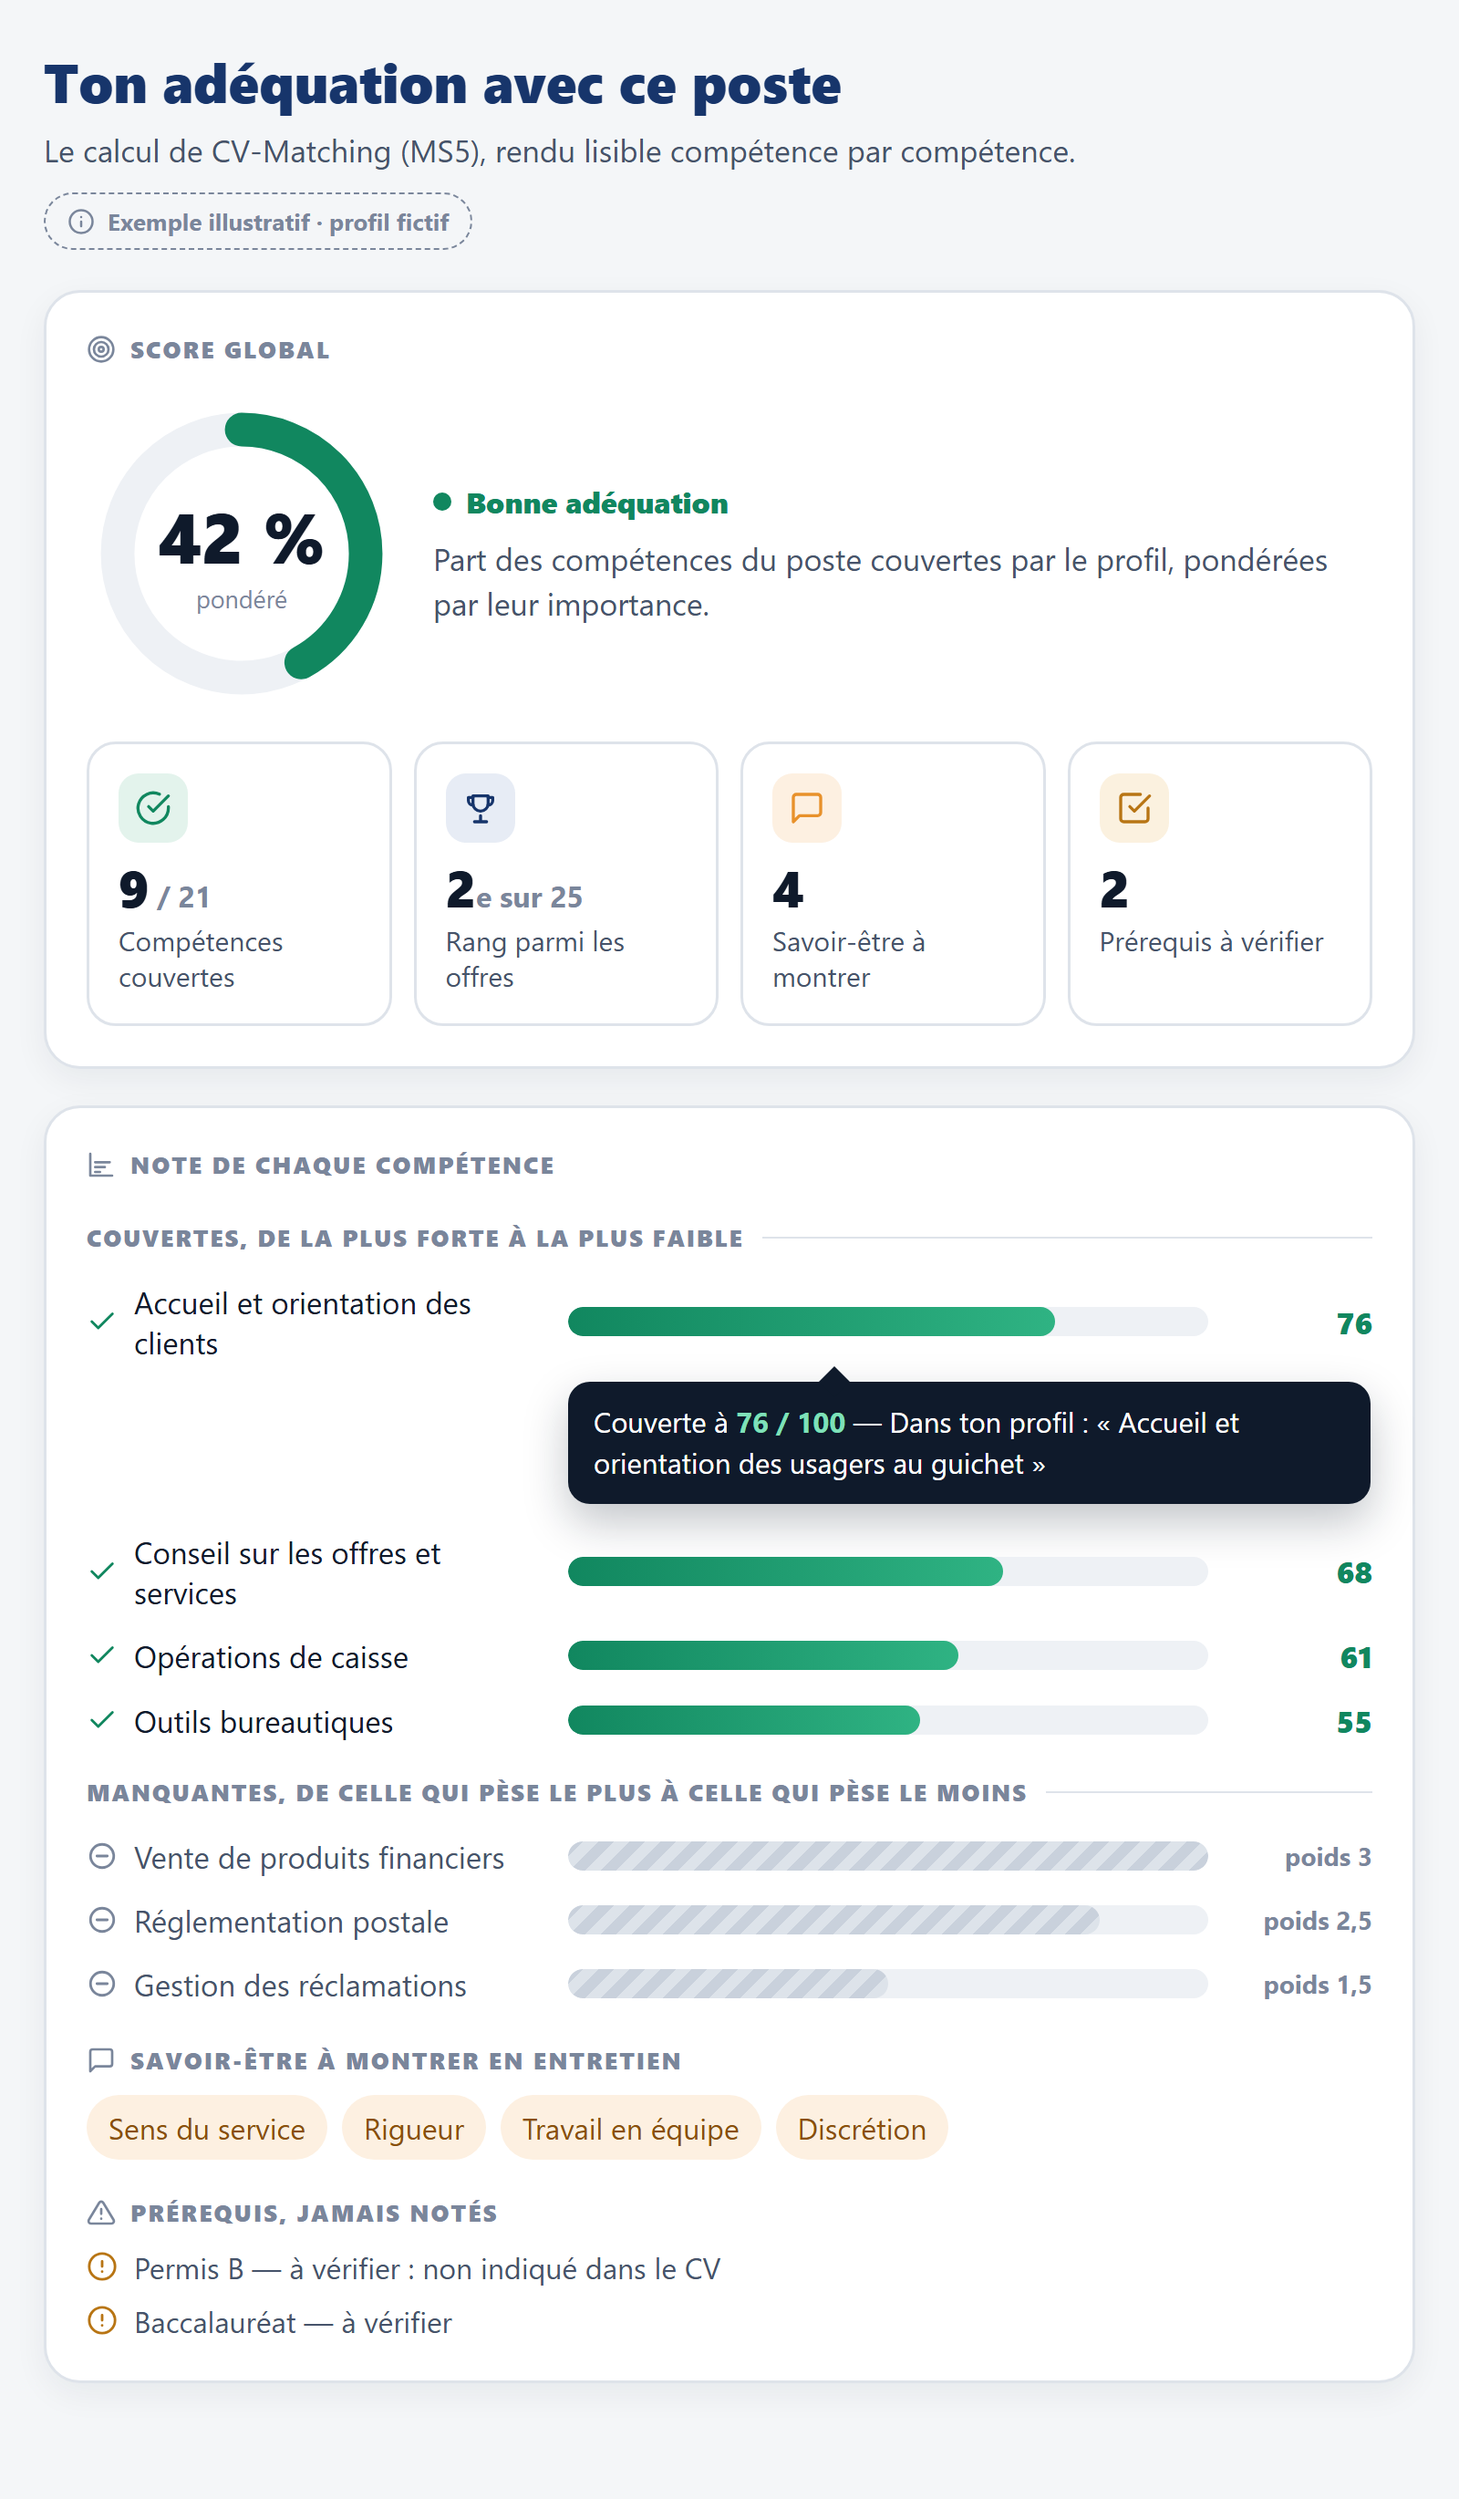
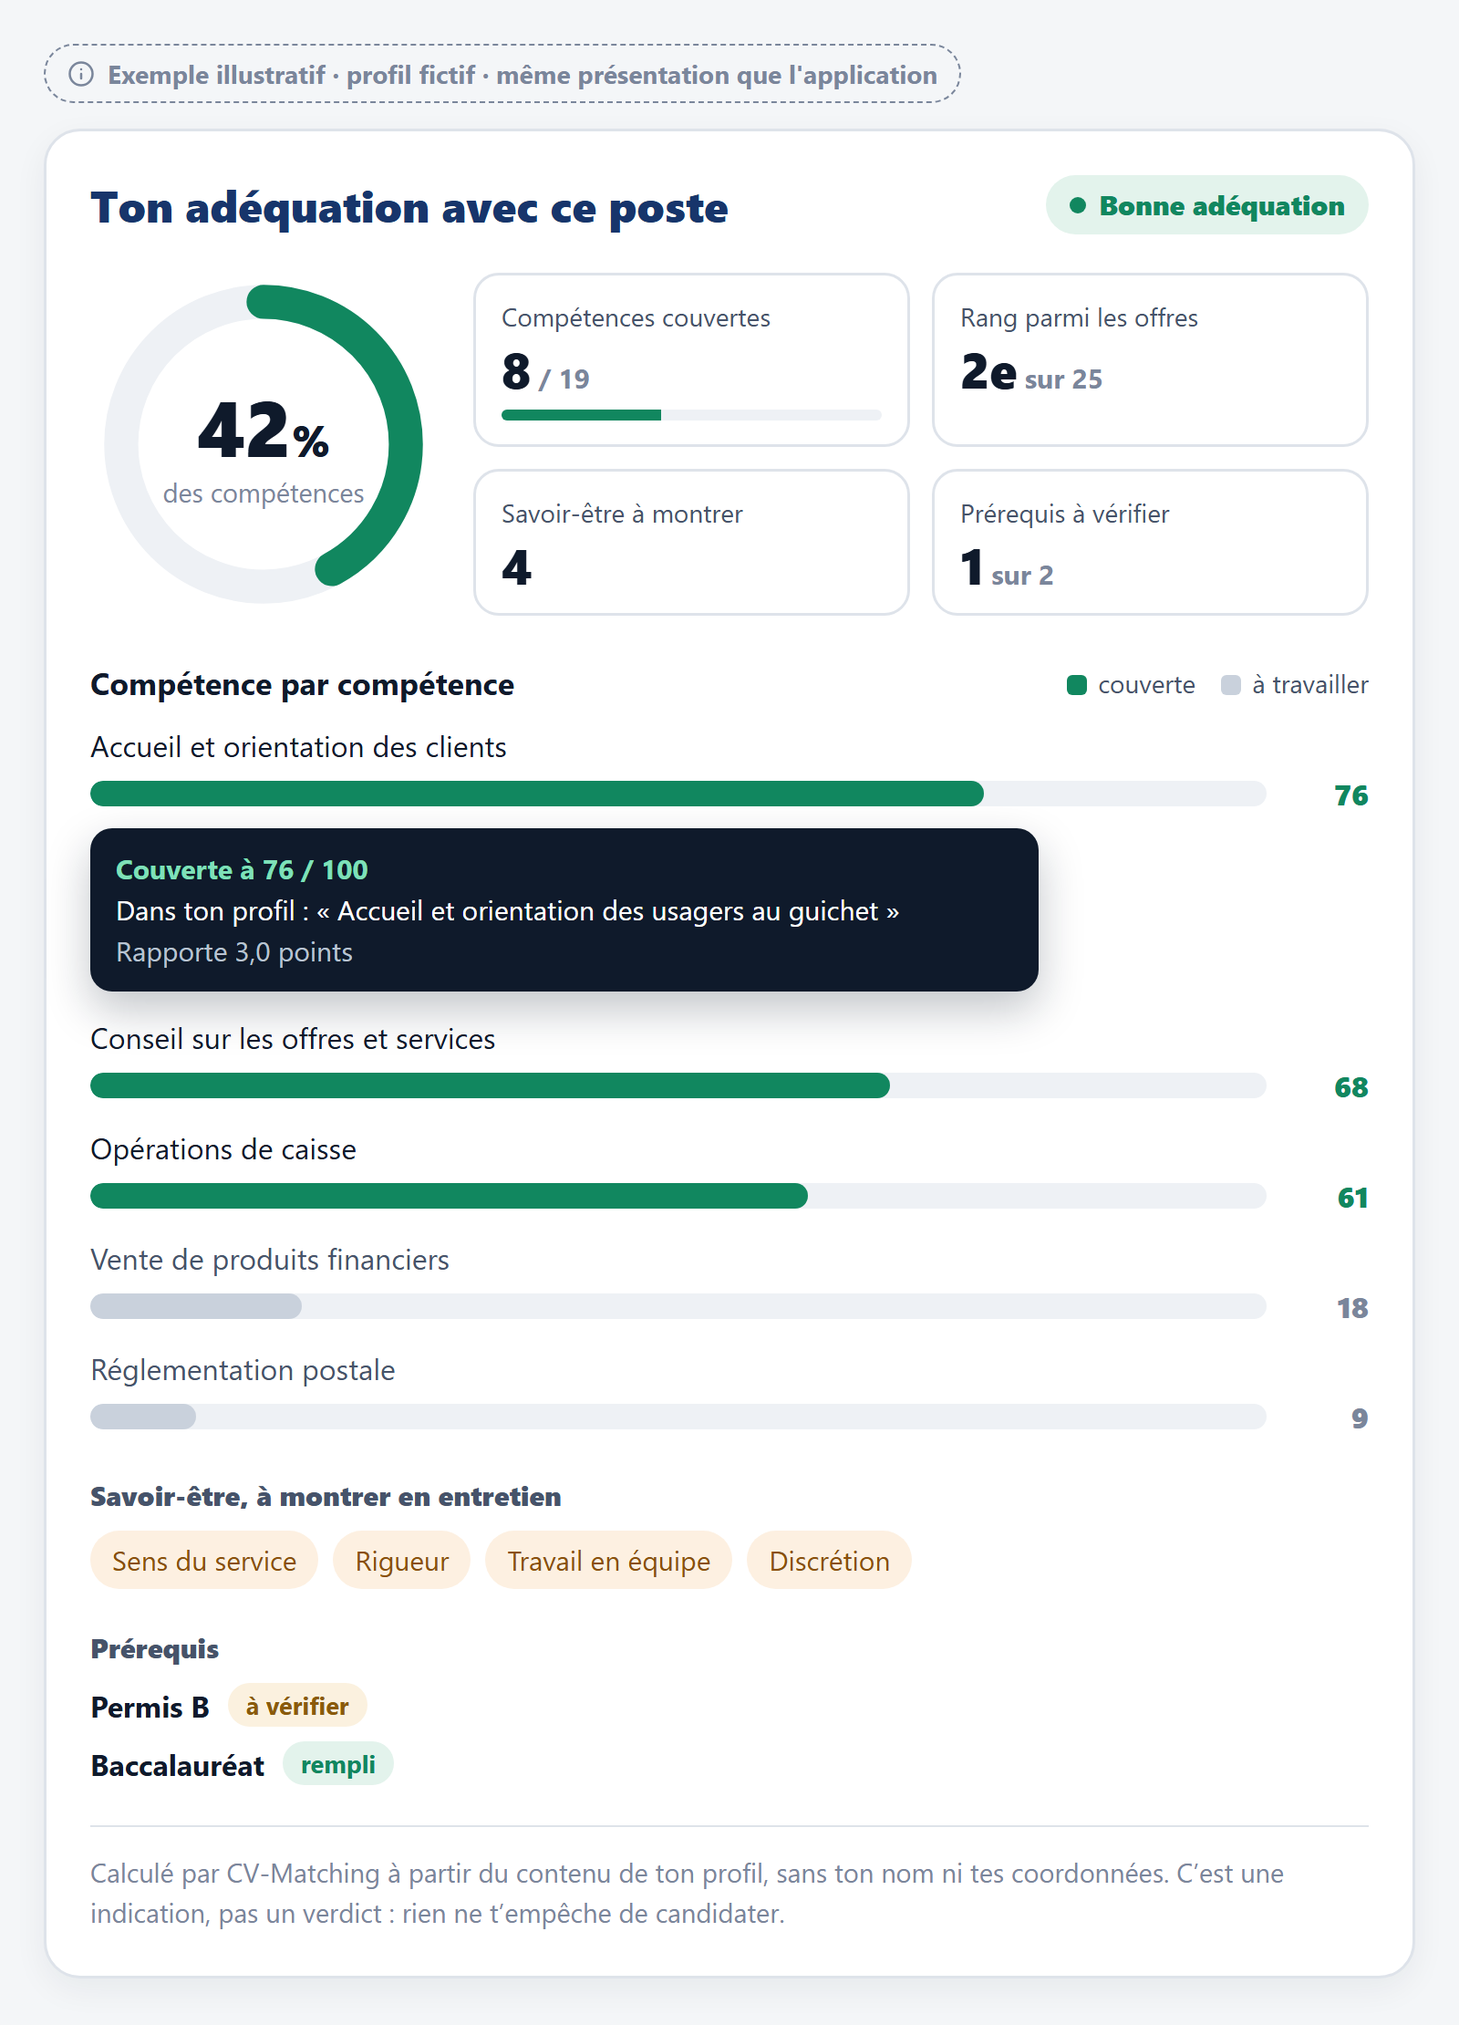
Audit de l'article : adéquation dans le détail mobile, message d'écran vide exact, visuels fidèles à l'interface

diff --git a/beta/src/ecrans/Deck.tsx b/beta/src/ecrans/Deck.tsx
@@ -307,7 +307,7 @@ export function EcranDeck({ profil, versProfil, onDecision }: Props) {
                   {erreur ?? (actifs
                     ? 'Tes filtres sont trop stricts pour ce qui reste : retire-en un, ou efface-les tous.'
                     : aucuneOuverte && !filtres.clos
-                      ? `L’OPT-NC n’a aucun avis ouvert aujourd’hui (${compteur?.expires ?? 0} clos). Les AVP arrivent au fil de l’eau — reviens demain, ou entraîne-toi sur les offres closes.`
+                      ? `Aucun avis n’est ouvert sur la plateforme en ce moment (${compteur?.expires ?? 0} clos). Les AVP arrivent au fil de l’eau — reviens demain, ou entraîne-toi sur les offres closes.`
                       : 'Aucune autre offre ouverte aujourd’hui. Les AVP de l’OPT-NC arrivent au fil de l’eau — reviens demain, ou entraîne-toi sur les offres closes.')}
                 </p>
                 <div className="btns vide-actions">
@@ -343,7 +343,7 @@ export function EcranDeck({ profil, versProfil, onDecision }: Props) {
 
       {detail && (
         <Feuille onFermer={() => setDetail(null)}>
-          <Detail offre={detail} profil={profil} />
+          <Detail offre={detail} profil={profil} adequation={adequationDe(detail)} />
           <div className="btns" style={{ marginTop: 'var(--s5)' }}>
             <button className="btn primaire" onClick={() => setDetail(null)}>Fermer</button>
           </div>
